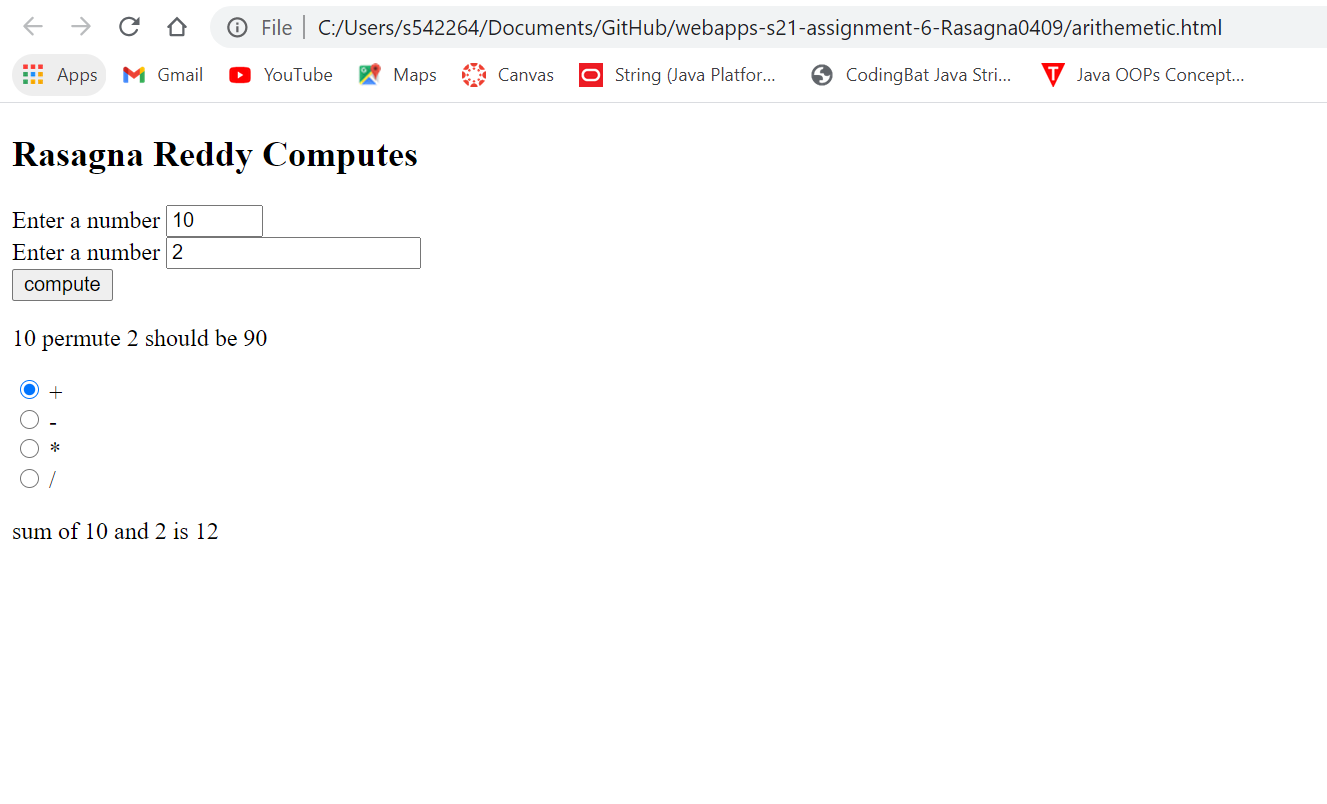
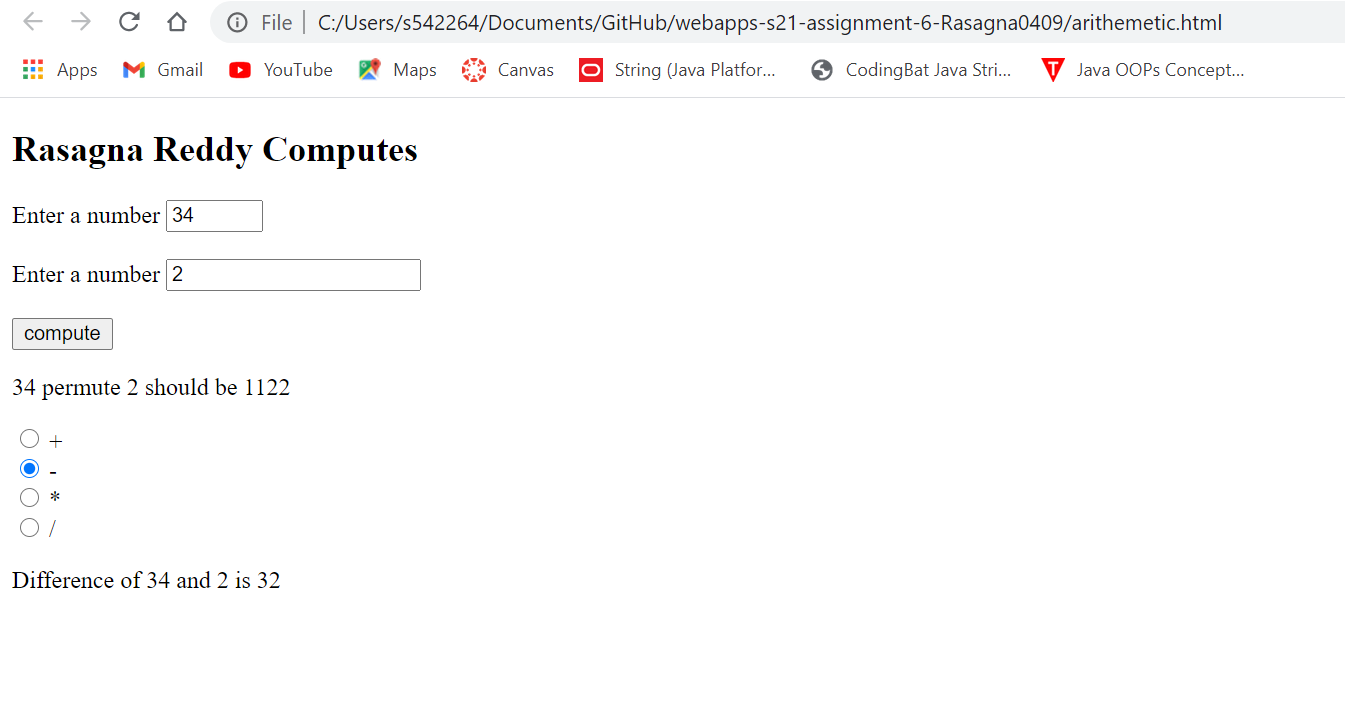
hosted on git hub

diff --git a/bear.html b/bear.html
@@ -1,0 +1,73 @@
+<!DOCTYPE html>
+<html>
+ <head>
+     <title>
+         building bear
+     </title>
+ </head>
+<body>
+
+<h1>Rasagna Reddy Banda builds a bear</h1>
+
+<form>
+    <input type ="checkbox" id="checkbox_one" name="checkbox_one" value="hat">
+    <label for="checkbox_one">hat </label><br>
+
+    <input type ="checkbox" id="checkbox_two" name="checkbox_two" value="scarf">
+    <label for="checkbox_two">scarf </label><br>
+
+    <input type ="checkbox" id="checkbox_three" name="checkbox_three" value="shirt">
+    <label for="checkbox_three">shirt </label><br>
+
+    <br>
+
+    <input type="button" onclick="startBear()" value="Start a bear">
+    <br>
+    <br>
+</form>
+<form>
+    <label for = "t1">Enter a property</label>
+    <input type ="text" id = "t1" name ="t1" value ="color"><br>
+
+    <br>
+
+    <label for = "t2">Enter a value</label>
+    <input type ="text" id = "t2" name ="t2"><br>
+
+    <br>
+
+    <input type ="button" onclick="updatebear()" value ="Update the bear">
+</form>
+<p id="Results">This text will be replaced </p>
+<script> 
+
+var my_bear = {}
+function startBear(){
+    my_bear = {}
+    if(document.getElementById("checkbox_one").checked == true)
+        my_bear['hat']='true'
+    else 
+    my_bear['hat']='false'
+
+    if(document.getElementById("checkbox_two").checked == true)
+        my_bear['scarf']='true'
+    else 
+        my_bear['scarf']='false'
+
+    if(document.getElementById("checkbox_three").checked == true)
+        my_bear['shirt']='true'
+    else 
+        my_bear['shirt']='false'
+    document.getElementById("Results").innerHTML=JSON.stringify(my_bear)
+    console.log(my_bear)
+}
+function updatebear(){
+        t1 = document.getElementById("t1").value 
+        t2 = document.getElementById("t2").value
+        my_bear[t1]=t2
+        document.getElementById("Results").innerHTML=JSON.stringify(my_bear)
+        console.log(my_bear)
+    }
+</script>
+</body>
+</html> 

diff --git a/arithemetic.html b/arithemetic.html
@@ -13,8 +13,12 @@
     <label for="number_1">Enter a number </label>
     <input type ="number" id="number_1" name="number_1" min=10 max=50 step=2 value=10> <br>
 
+    <br>
+
     <label for="number_2">Enter a number </label>
     <input type ="number" id="number_2" name="number_2" autofocus value=2> <br>
+
+    <br>
 
     <input type="button" onclick="permutations()" value="compute">
 </form>

diff --git a/README.md b/README.md
@@ -1,2 +1,5 @@
 # WebApps-S21-Assignment-6
-Assignment introduction Java Script and DOM
+Assignment introduction Java Script and DOM<br>
+[Hosted at](https://44-563-web-apps-s21.github.io/webapps-s21-assignment-6-Rasagna0409/hidden.html)<br>
+[Hosted at](https://44-563-web-apps-s21.github.io/webapps-s21-assignment-6-Rasagna0409/arithemetic.html)<br>
+[Hosted at](https://44-563-web-apps-s21.github.io/webapps-s21-assignment-6-Rasagna0409/bear.html)<br>
